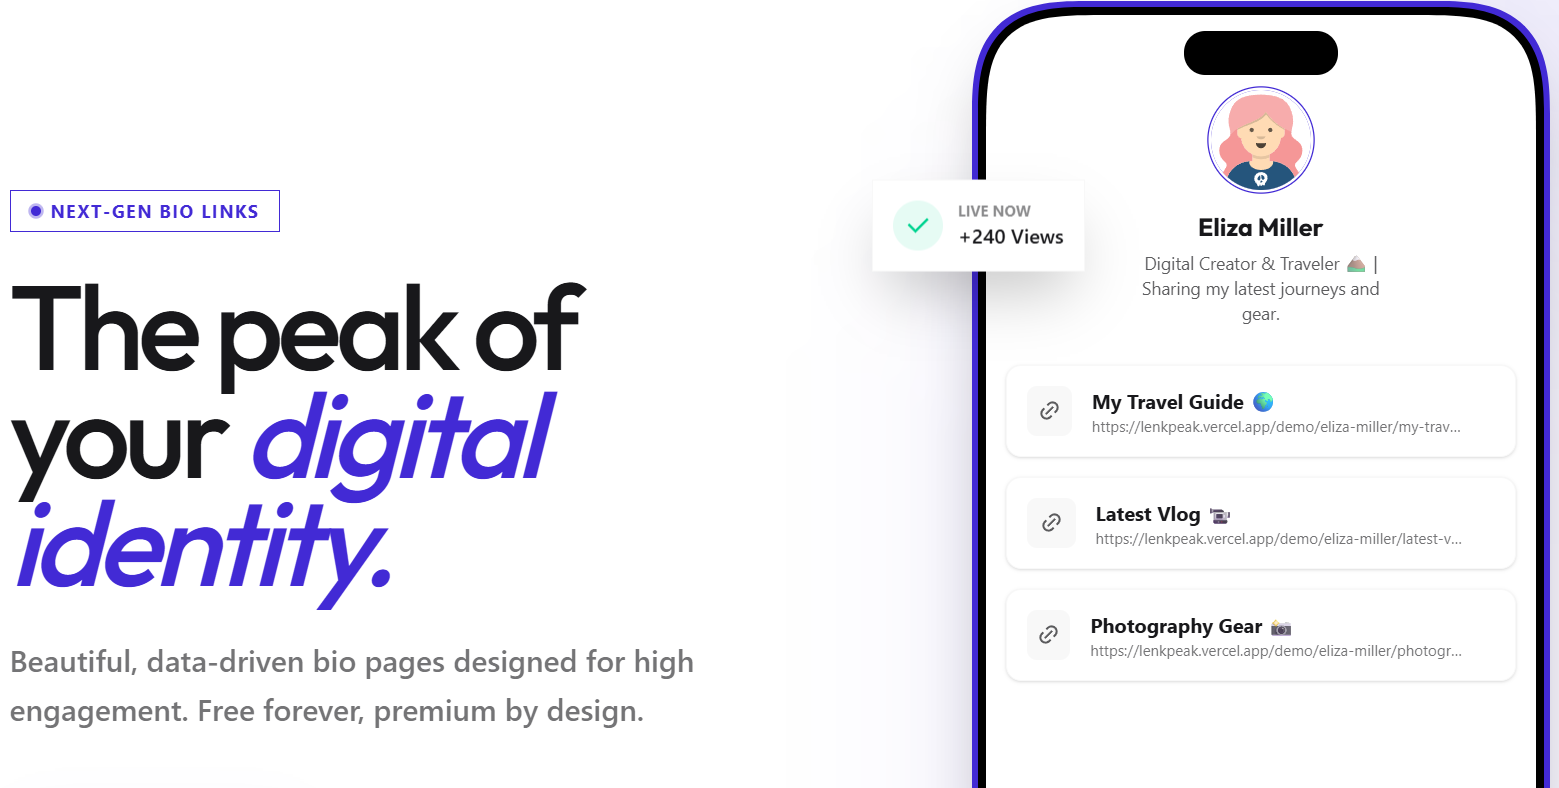
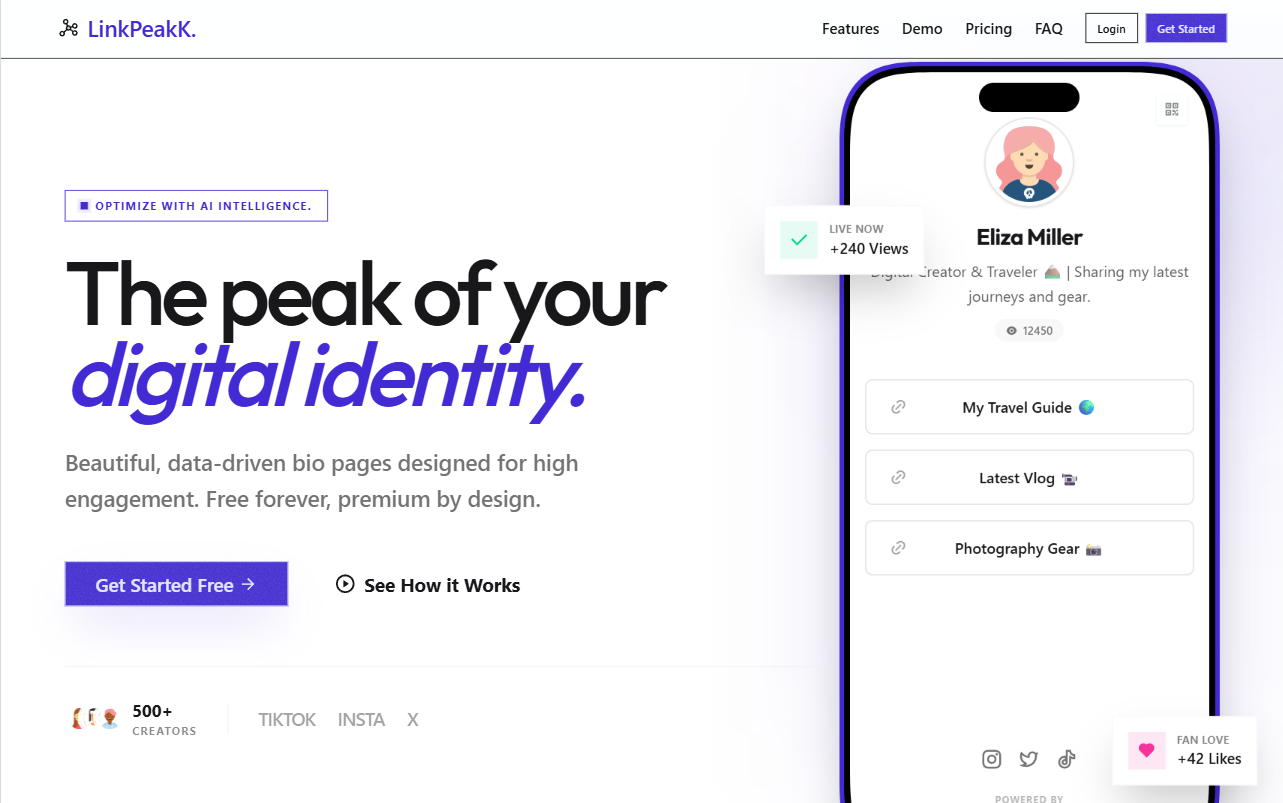
Added SEO Enancement

diff --git a/app/layout.js b/app/layout.js
@@ -51,10 +51,24 @@ const fredoka = Fredoka({
 
 
 export const metadata = {
+  metadataBase: new URL(CONFIG.SITE_URL),
   title: CONFIG.METATAGS.title,
   description: CONFIG.METATAGS.description,
   keywords: CONFIG.METATAGS.keywords,
-
+  robots: {
+    index: true,
+    follow: true,
+    googleBot: {
+      index: true,
+      follow: true,
+      'max-video-preview': -1,
+      'max-image-preview': 'large',
+      'max-snippet': -1,
+    },
+  },
+  alternates: {
+    canonical: CONFIG.SITE_URL,
+  },
   openGraph: {
     type: 'website',
     locale: 'en_US',
@@ -65,7 +79,7 @@ export const metadata = {
     keywords: CONFIG.METATAGS.keywords,
     images: [
       {
-        url: `${CONFIG.SITE_URL}/linkpeakk-home.webp`,
+        url: `${CONFIG.SITE_SCREENSHOT}`,
         width: 1200,
         height: 630,
         alt: `${CONFIG.SITE_NAME} - Link in Bio Tool`,
@@ -78,14 +92,33 @@ export const metadata = {
     creator: '@linkpeak',
     title: CONFIG.METATAGS.title,
     description: CONFIG.METATAGS.description,
-    images: [`${CONFIG.SITE_URL}/linkpeakk-home.webp`],
+    images: [`${CONFIG.SITE_SCREENSHOT}`],
     keywords: CONFIG.METATAGS.keywords,
   },
 };
 
 export default function RootLayout({ children }) {
+  const organizationSchema = {
+    "@context": "https://schema.org",
+    "@type": "Organization",
+    "name": CONFIG.SITE_NAME,
+    "url": CONFIG.SITE_URL,
+    "logo": `${CONFIG.SITE_URL}/linkpeakk-logo.webp`,
+    "description": CONFIG.METATAGS.description,
+    "email": CONFIG.SUPPORT_EMAIL,
+    "sameAs": [
+      "https://twitter.com/linkpeak",
+    ],
+  };
+
   return (
     <html lang="en" data-theme="linkpeak">
+      <head>
+        <script
+          type="application/ld+json"
+          dangerouslySetInnerHTML={{ __html: JSON.stringify(organizationSchema) }}
+        />
+      </head>
       <body
         className={`${outfit.variable} ${jakarta.variable} ${spaceGrotesk.variable} ${playfair.variable} ${mono.variable} ${fredoka.variable} antialiased`}
         suppressHydrationWarning

diff --git a/app/[slug]/page.js b/app/[slug]/page.js
@@ -35,7 +35,7 @@ export async function generateMetadata({ params }) {
 
   // Use page profile image or default
   const ogImage =
-    page.profile_image || `${CONFIG.SITE_URL}/linkpeakk-home.webp`;
+    page.profile_image || `${CONFIG.SITE_SCREENSHOT}`;
 
   return {
     title: page.seo?.title || `${page.title} | ${CONFIG.SITE_NAME}`,
@@ -45,6 +45,20 @@ export async function generateMetadata({ params }) {
       `Check out ${page.title}'s links on ${CONFIG.SITE_NAME}.`,
     keywords:
       page.seo?.keywords || "link in bio, creator, social links, linkpeak",
+    robots: {
+      index: true,
+      follow: true,
+      googleBot: {
+        index: true,
+        follow: true,
+        'max-video-preview': -1,
+        'max-image-preview': 'large',
+        'max-snippet': -1,
+      },
+    },
+    alternates: {
+      canonical: `${CONFIG.SITE_URL}/${slug}`,
+    },
     openGraph: {
       type: "profile",
       url: `${CONFIG.SITE_URL}/${slug}`,
@@ -77,5 +91,26 @@ export default async function Page({ params }) {
     return <BioNotFound />;
   }
 
-  return <PublicBioNew page={rawPage} />;
+  // JSON-LD structured data for Person/ProfilePage
+  const personSchema = {
+    "@context": "https://schema.org",
+    "@type": "ProfilePage",
+    "mainEntity": {
+      "@type": "Person",
+      "name": rawPage.title,
+      "description": rawPage.bio || `${rawPage.title}'s bio page`,
+      "image": rawPage.profile_image || `${CONFIG.SITE_SCREENSHOT}`,
+      "url": `${CONFIG.SITE_URL}/${slug}`,
+    },
+  };
+
+  return (
+    <>
+      <script
+        type="application/ld+json"
+        dangerouslySetInnerHTML={{ __html: JSON.stringify(personSchema) }}
+      />
+      <PublicBioNew page={rawPage} />
+    </>
+  );
 }

diff --git a/app/sitemap.js b/app/sitemap.js
@@ -1,0 +1,46 @@
+import { CONFIG } from "@/constants/config";
+
+export default async function sitemap() {
+    const baseUrl = CONFIG.SITE_URL;
+
+    // Static marketing and legal pages
+    const staticPages = [
+        {
+            url: baseUrl,
+            lastModified: new Date(),
+            changeFrequency: "weekly",
+            priority: 1.0,
+        },
+        {
+            url: `${baseUrl}/contact-us`,
+            lastModified: new Date(),
+            changeFrequency: "monthly",
+            priority: 0.5,
+        },
+        {
+            url: `${baseUrl}/privacy-policy`,
+            lastModified: new Date(),
+            changeFrequency: "monthly",
+            priority: 0.3,
+        },
+        {
+            url: `${baseUrl}/terms-of-service`,
+            lastModified: new Date(),
+            changeFrequency: "monthly",
+            priority: 0.3,
+        },
+    ];
+
+    // Dynamic bio pages - will be crawled via robots.txt Allow directive
+    // Individual bio pages are already SEO-optimized with proper metadata
+    // Search engines will discover them through:
+    // 1. Internal links from the home page
+    // 2. External social media links
+    // 3. Direct crawling via robots.txt Allow: /*/
+
+    // Note: For large-scale deployments with 1000+ bio pages, consider adding
+    // a dedicated backend endpoint (GET /api/v1/public/sitemap-pages) that returns
+    // all active public bio pages with their slugs and last_modified dates
+
+    return staticPages;
+}

diff --git a/constants/config.js b/constants/config.js
@@ -4,6 +4,7 @@ export const CONFIG = {
     SITE_NAME: siteName,
     SITE_URL: process.env.NEXT_PUBLIC_SITE_URL || "https://www.linkpeakk.com",
     SUPPORT_EMAIL: "connect@linkpeakk.com",
+    SITE_SCREENSHOT: `${process.env.NEXT_PUBLIC_SITE_URL}/linkpeakk-home.webp`,
 
     METATAGS: {
         title: `${siteName} | Premium Link in Bio Platform for Creators, Brands & Professionals`,
